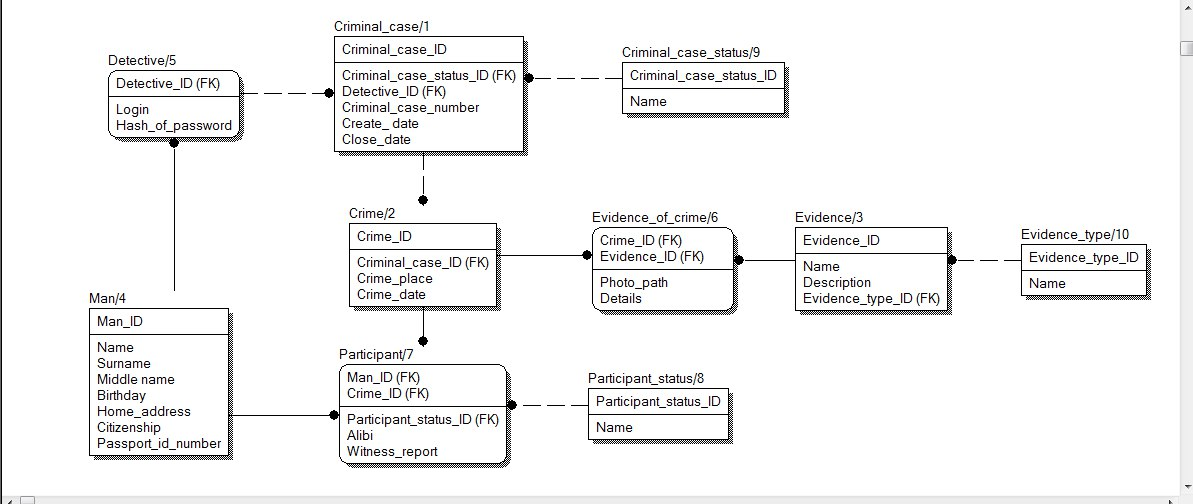
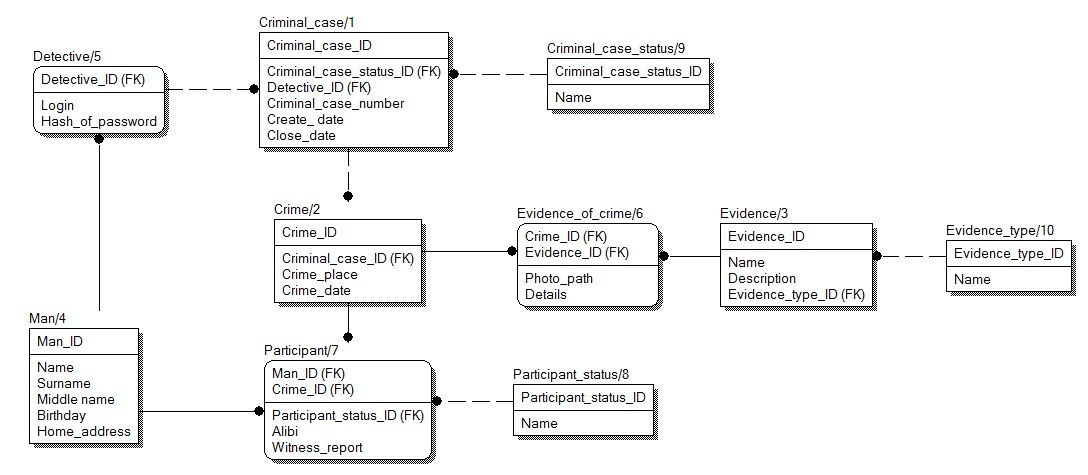
Абстрактный класс Man создан
1. Создан класс Man, наследником которого являются Detective и Participant, в которые будут подгружаться данные
2. Нужно дописать отдельный DAOMan, от которого наследуются DAODetective и DAOParticipant
3. Ещё раз обновили БД. Пока что ни разу не компилилось.

diff --git a/src/com/logic/Man.java b/src/com/logic/Man.java
@@ -1,0 +1,69 @@
+package com.logic;
+
+import java.time.LocalDate;
+import java.time.format.DateTimeParseException;
+
+public abstract class Man {
+    protected String name = "NoName";
+    protected String surname = "NoSurname";
+    protected String middleName = "NoMiddleName";
+    protected LocalDate birthDay = LocalDate.parse("08.09.1998", ProjectConstants.myDateTimeFormatter);
+    protected String homeAddress = "NoHomeAddress";
+
+    public String getName() {
+        return name;
+    }
+
+    public void setName(String name) {
+        if (name.equals(""))
+            this.name = "NoName";
+        else
+            this.name = name;
+    }
+
+    public String getSurname() {
+        return surname;
+    }
+
+    public void setSurname(String surname) {
+        if (surname.equals(""))
+            this.surname = "NoSurname";
+        else
+            this.surname = surname;
+    }
+
+    public String getMiddleName() {
+        return middleName;
+    }
+
+    public void setMiddleName(String middleName) {
+        if (middleName.equals(""))
+            this.middleName = "NoMiddleName";
+        else
+            this.middleName = middleName;
+    }
+
+    public LocalDate getBirthDay() {
+        return birthDay;
+    }
+
+    public void setBirthDay(LocalDate birthDay) {
+        this.birthDay = birthDay;
+    }
+
+    public void setBirthDay(String birthDay) {
+        try {
+            this.birthDay = LocalDate.parse(birthDay, ProjectConstants.myDateTimeFormatter);
+        } catch (DateTimeParseException e) {
+            LogicLog.log(e.toString());
+        }
+    }
+
+    public String getHomeAddress() {
+        return homeAddress;
+    }
+    public void setHomeAddress(String homeAddress) {
+        if (!homeAddress.isEmpty())
+            this.homeAddress = homeAddress;
+    }
+}

diff --git a/src/com/DAO/SQLConnection.java b/src/com/DAO/SQLConnection.java
@@ -6,10 +6,9 @@ import java.sql.SQLException;
 import java.sql.Statement;
 import java.sql.Connection;
 
-
 public class SQLConnection implements IConnection {
 
-    private String url = "jdbc:mysql://localhost:3306/test";
+    private String url = "jdbc:mysql://localhost:3306/DeadPoolDB";
     private String user = "root";
     private String password = "root";
 
@@ -17,7 +16,9 @@ public class SQLConnection implements IConnection {
     private static Statement stmt;
     private static ResultSet rs;
 
-    SQLConnection(String url, String userName,String password)
+    public SQLConnection(){/*оставлю пустой конструктор, дабы можно было оставить изначально инициализированные значения*/}
+
+    public SQLConnection(String url, String userName,String password)
     {
         this.url = url;
         this.user = userName;

diff --git a/src/com/logic/tempMainCode.java b/src/com/logic/tempMainCode.java
@@ -1,0 +1,14 @@
+package com.logic;
+
+import com.DAO.DAODetective;
+import com.DAO.SQLConnection;
+
+public class tempMainCode {
+    public static void main(String[] args) {
+        //создаём объект, благодаря которому будем доставать инфу о детективах
+        DAODetective newDetectiveDao = new DAODetective();
+        //устанавливаем способ соединения (это паттерн)
+        newDetectiveDao.setConnectionToUse(new SQLConnection());
+
+    }
+}

diff --git a/src/com/logic/Detective.java b/src/com/logic/Detective.java
@@ -1,0 +1,23 @@
+package com.logic;
+
+public class Detective extends Man {
+    private String login;
+    private String password;
+
+    public String getLogin() {
+        return login;
+    }
+
+    public void setLogin(String login) {
+        this.login = login;
+    }
+
+    public String getPassword() {
+        return password;
+    }
+
+    public void setPassword(String password) {
+        this.password = password;
+    }
+
+}

diff --git a/src/com/logic/LogicLog.java b/src/com/logic/LogicLog.java
@@ -1,0 +1,19 @@
+package com.logic;
+import java.util.Date;
+
+public class LogicLog {
+
+    private static boolean isEnabled = true;
+
+    public static void enable() {
+        isEnabled = true;
+    }
+
+    public static void disable() {
+        isEnabled = false;
+    }
+
+    public static void log(String logString) {
+        System.out.print(new Date().toString() + ": " + logString);
+    }
+}

diff --git a/src/com/logic/ProjectConstants.java b/src/com/logic/ProjectConstants.java
@@ -1,0 +1,8 @@
+package com.logic;
+
+import java.time.format.DateTimeFormatter;
+
+public class ProjectConstants {
+    public static String DATE_FORMAT = "dd.MM.yyyy";
+    public static DateTimeFormatter myDateTimeFormatter = DateTimeFormatter.ofPattern(ProjectConstants.DATE_FORMAT);
+}
